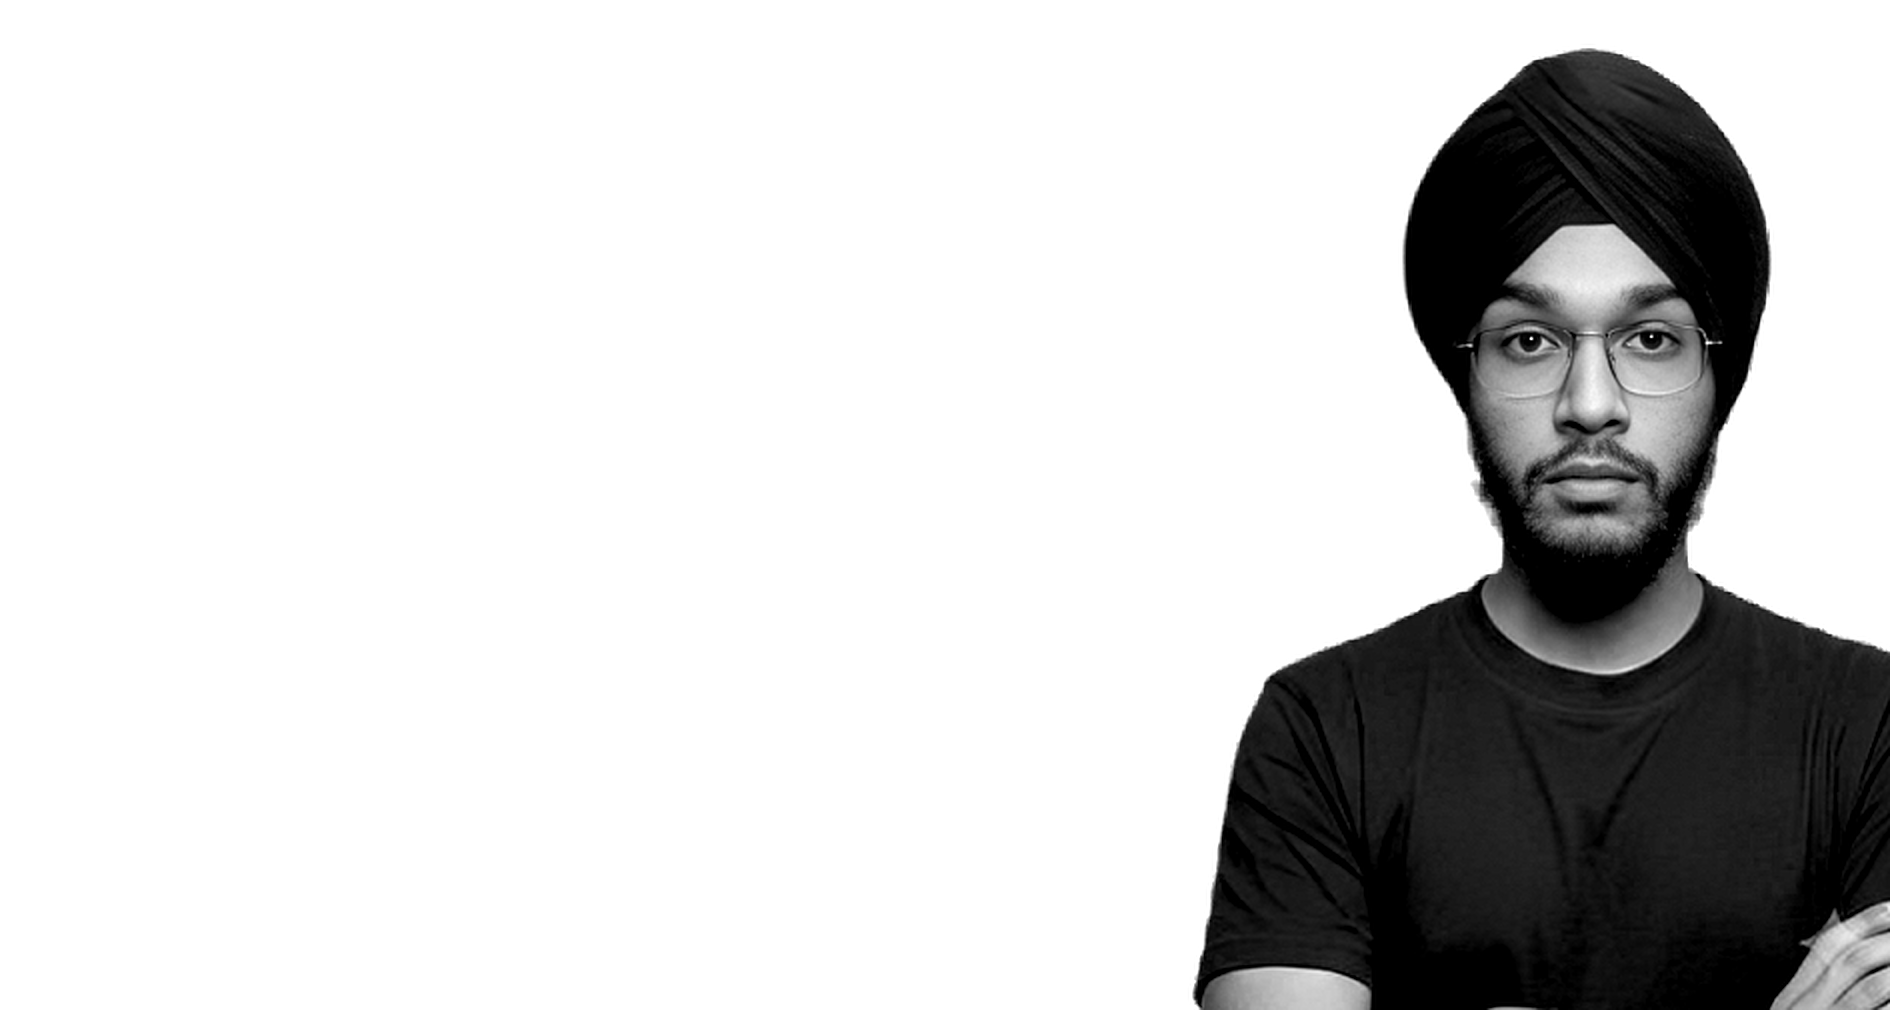
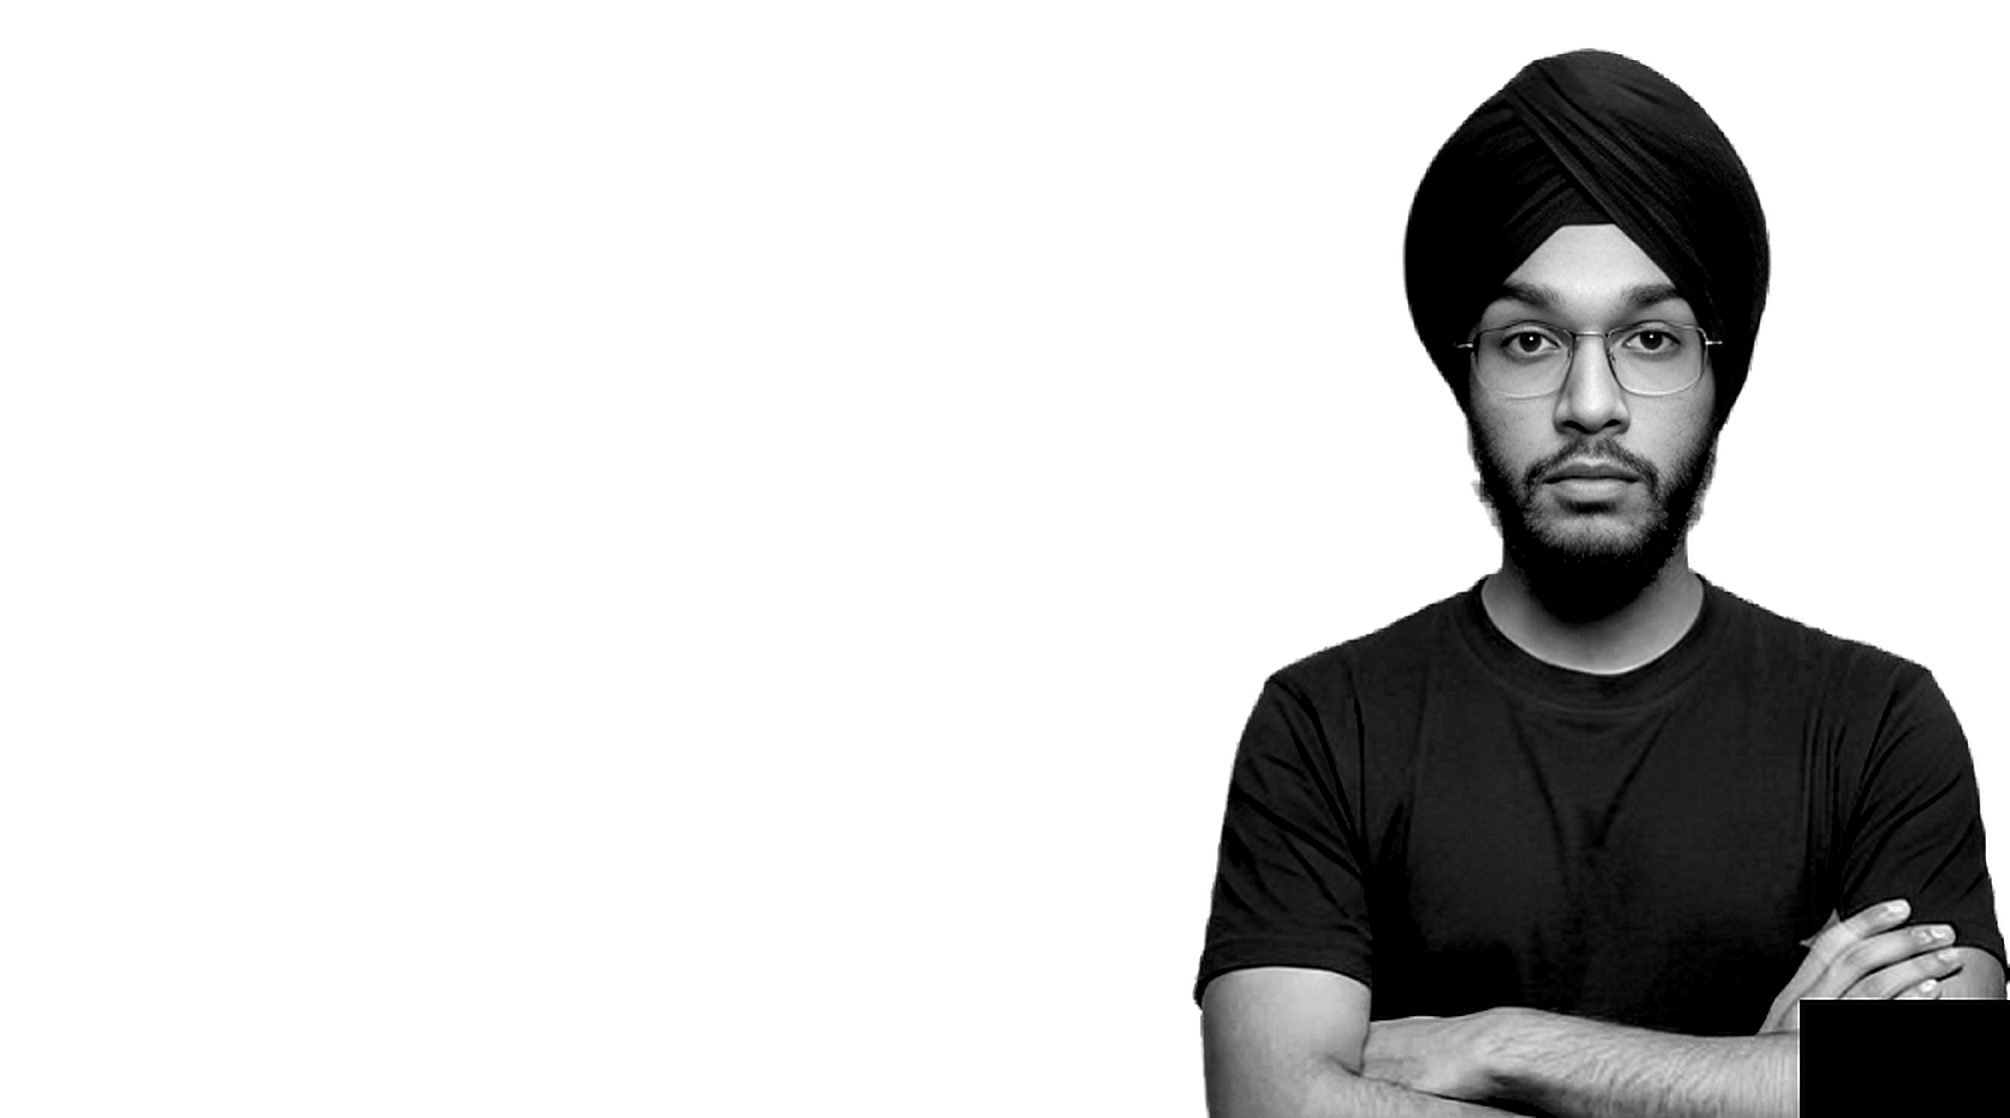
improve style

Changed region(s): [[0.5931, 0.0307, 1.0, 1.0]]

diff --git a/my-folio/src/App.css b/my-folio/src/App.css
@@ -89,11 +89,13 @@ html, body {
 }
 
 /* ───────── Main Area ───────── */
-.r-main {
+.r-hero {
   flex: 1;
   display: flex;
   padding: 0 6vw;
   position: relative;
+  min-height: 100vh;
+  border-bottom: 1px solid rgba(212, 206, 189, 0.1);
 }
 
 /* ───────── Left Content ───────── */
@@ -417,12 +419,14 @@ html, body {
 .r-art img {
   position: absolute;
   bottom: 0;
-  right: 6vw; /* move slightly left of the absolute right edge */
+  right: 4vw;
   height: 95vh;
   width: auto;
   max-width: none;
   object-fit: contain;
-  filter: grayscale(100%);
+  filter: grayscale(100%) drop-shadow(-20px 20px 40px rgba(0, 0, 0, 0.8));
+  -webkit-mask-image: linear-gradient(to right, transparent 0%, black 5%, black 95%, transparent 100%);
+  mask-image: linear-gradient(to right, transparent 0%, black 5%, black 95%, transparent 100%);
 }
 
 .r-scroll-hint {
@@ -451,23 +455,146 @@ html, body {
   background: linear-gradient(to bottom, #4a483f, transparent);
 }
 
-/* ───────── Side Text ───────── */
 .r-side-text {
   position: fixed;
-  left: 1.5rem;
+  left: 2vw;
   top: 50%;
-  transform: translateY(-50%) rotate(-90deg);
+  transform: translateY(-50%) rotate(180deg);
+  writing-mode: vertical-rl;
   font-family: 'JetBrains Mono', monospace;
   font-size: 0.5625rem;
   letter-spacing: 0.3em;
   color: #4a483f;
-  white-space: nowrap;
   z-index: 10;
+}
+
+/* ───────── About Section ───────── */
+.r-about {
+  display: flex;
+  padding: 8vw 6vw 8vw 4vw;
+  gap: 4vw;
+  align-items: center;
+  position: relative;
+  background-color: #0f0f0f;
+  border-bottom: 1px solid rgba(212, 206, 189, 0.1);
+}
+
+.r-about-eyebrow {
+  display: flex;
+  flex-direction: column;
+  align-items: center;
+  gap: 1.5rem;
+  margin-right: 2vw;
+}
+
+.r-about-eyebrow-text {
+  writing-mode: vertical-rl;
+  transform: rotate(180deg);
+  font-family: 'JetBrains Mono', monospace;
+  font-size: 0.5rem;
+  letter-spacing: 0.3em;
+  color: #666459;
+}
+
+.r-about-eyebrow-icon {
+  font-size: 1rem;
+  color: #d4cebd;
+}
+
+.r-about-content {
+  flex: 1;
+  max-width: 650px;
+  display: flex;
+  flex-direction: column;
+  gap: 2rem;
+}
+
+.r-about-large {
+  font-family: 'Inter', sans-serif;
+  font-size: 2.5rem;
+  font-weight: 300;
+  line-height: 1.3;
+  color: #d4cebd;
+  letter-spacing: -0.02em;
+}
+
+.r-about-small {
+  font-family: 'Inter', sans-serif;
+  font-size: 0.85rem;
+  font-weight: 400;
+  line-height: 1.7;
+  color: #666459;
+  max-width: 85%;
+}
+
+.r-about-graphic {
+  margin-left: auto;
+  padding: 2rem;
+}
+
+.r-graphic-box {
+  border: 1px solid rgba(212, 206, 189, 0.1);
+  padding: 1.5rem;
+  display: flex;
+  flex-direction: column;
+  gap: 1.5rem;
+  background: rgba(212, 206, 189, 0.02);
+}
+
+.r-graphic-top {
+  font-family: 'JetBrains Mono', monospace;
+  font-size: 0.5rem;
+  color: #666459;
+  letter-spacing: 0.2em;
+}
+
+.r-graphic-mid {
+  display: flex;
+  align-items: center;
+  gap: 2rem;
+}
+
+.r-graphic-kanji {
+  font-family: 'Inter', sans-serif;
+  font-size: 3.5rem;
+  font-weight: 300;
+  color: #d4cebd;
+  line-height: 1.1;
+  border-right: 1px solid rgba(212, 206, 189, 0.1);
+  padding-right: 1.5rem;
+}
+
+.r-graphic-ascii pre {
+  font-family: 'JetBrains Mono', monospace;
+  font-size: 0.5rem;
+  line-height: 1.2;
+  color: #8c897d;
+  margin: 0;
+}
+
+.r-graphic-bottom {
+  display: flex;
+  justify-content: space-between;
+  align-items: flex-end;
+  border-top: 1px solid rgba(212, 206, 189, 0.1);
+  padding-top: 1rem;
+}
+
+.r-graphic-barcode {
+  font-family: 'JetBrains Mono', monospace;
+  font-size: 0.5rem;
+  color: #666459;
+  letter-spacing: 0.2em;
+}
+
+.r-graphic-bottom-icon {
+  font-size: 0.875rem;
+  color: #d4cebd;
 }
 
 /* ───────── Responsive ───────── */
 @media (max-width: 1024px) {
-  .r-header, .r-main { padding: 0 4rem; }
+  .r-header, .r-hero { padding: 0 4rem; }
   .r-header { padding-top: 2rem; }
   .r-art img { margin-right: 4rem; }
 }
@@ -476,7 +603,7 @@ html, body {
   html, body { overflow-y: auto; }
   .r-header { padding: 1.5rem; }
   .r-nav { display: none; }
-  .r-main { padding: 0 1.5rem; flex-direction: column; }
+  .r-hero { padding: 0 1.5rem; flex-direction: column; }
   .r-left { width: 100%; max-width: 100%; }
   .r-right { position: relative; width: 100%; height: 500px; margin-top: 2rem; }
   .r-halo { right: 50%; transform: translate(50%, -50%); width: 300px; height: 300px; }

diff --git a/my-folio/src/App.jsx b/my-folio/src/App.jsx
@@ -34,7 +34,9 @@ function App() {
         </div>
       </header>
 
-      <main className="r-main">
+      <main>
+        {/* Hero Section */}
+        <section className="r-hero">
         {/* Left Content Area */}
         <div className="r-left">
           <div className="r-eyebrow">
@@ -152,6 +154,68 @@ function App() {
             <div className="r-scroll-line"></div>
           </div>
         </div>
+        </section>
+
+        {/* About Section */}
+        <section className="r-about">
+          <div className="r-about-eyebrow">
+            <span className="r-about-eyebrow-text">WHAT I DO</span>
+            <span className="r-about-eyebrow-icon">カ</span>
+          </div>
+          
+          <div className="r-about-content">
+            <p className="r-about-large">
+              A passionate Full Stack Developer building robust web applications and seamless digital experiences. Specializing in modern JavaScript frameworks and scalable backend architectures.
+            </p>
+            <p className="r-about-small">
+              I craft elegant solutions to complex problems, focusing on performance, clean code, and user-centric design. Always learning, always building.
+            </p>
+          </div>
+
+          <div className="r-about-graphic">
+            <div className="r-graphic-box-new">
+              <div className="r-corner r-corner-tl">┌</div>
+              <div className="r-corner r-corner-tr">┐</div>
+              <div className="r-corner r-corner-bl">└</div>
+              <div className="r-corner r-corner-br">┘</div>
+
+              <div className="r-gb-top">00 // GURV-BASE</div>
+              
+              <div className="r-gb-left">ARCH LINUX</div>
+              <div className="r-gb-kanji">基<br/>盤</div>
+
+              <div className="r-gb-ascii">
+                <pre>{`       ▚▚▚▚      ▚▚▚▚
+    ▚▚▚▚▚▚▚▚    ▚▚▚▚▚▚▚▚
+ 
+   ██████████████████████
+   ██████████████████████
+ 
+  ▚▚  ███        ███  ▚▚
+  ▚▚  ███ ▚▚▚▚▚▚ ███  ▚▚
+  ▚▚  ███ ▚▚▚▚▚▚ ███  ▚▚
+  ▚▚  ███ ▚▚▚▚▚▚ ███  ▚▚
+  ▚▚  ██████████████  ▚▚
+  ▚▚  ██████████████  ▚▚
+  ▚▚                  ▚▚
+  ▚▚  ▚▚▚▚▚▚▚▚▚▚▚▚▚▚  ▚▚`}
+                </pre>
+              </div>
+
+              <div className="r-gb-overlay-text">
+                One source of truth. The<br/>
+                repo is the machine, a<br/>
+                live arch linux<br/>
+                target.
+              </div>
+
+              <div className="r-gb-bottom">
+                <div className="r-gb-barcode-real"></div>
+                <div className="r-gb-ka">カ</div>
+              </div>
+            </div>
+          </div>
+        </section>
       </main>
 
       {/* Side Text */}
